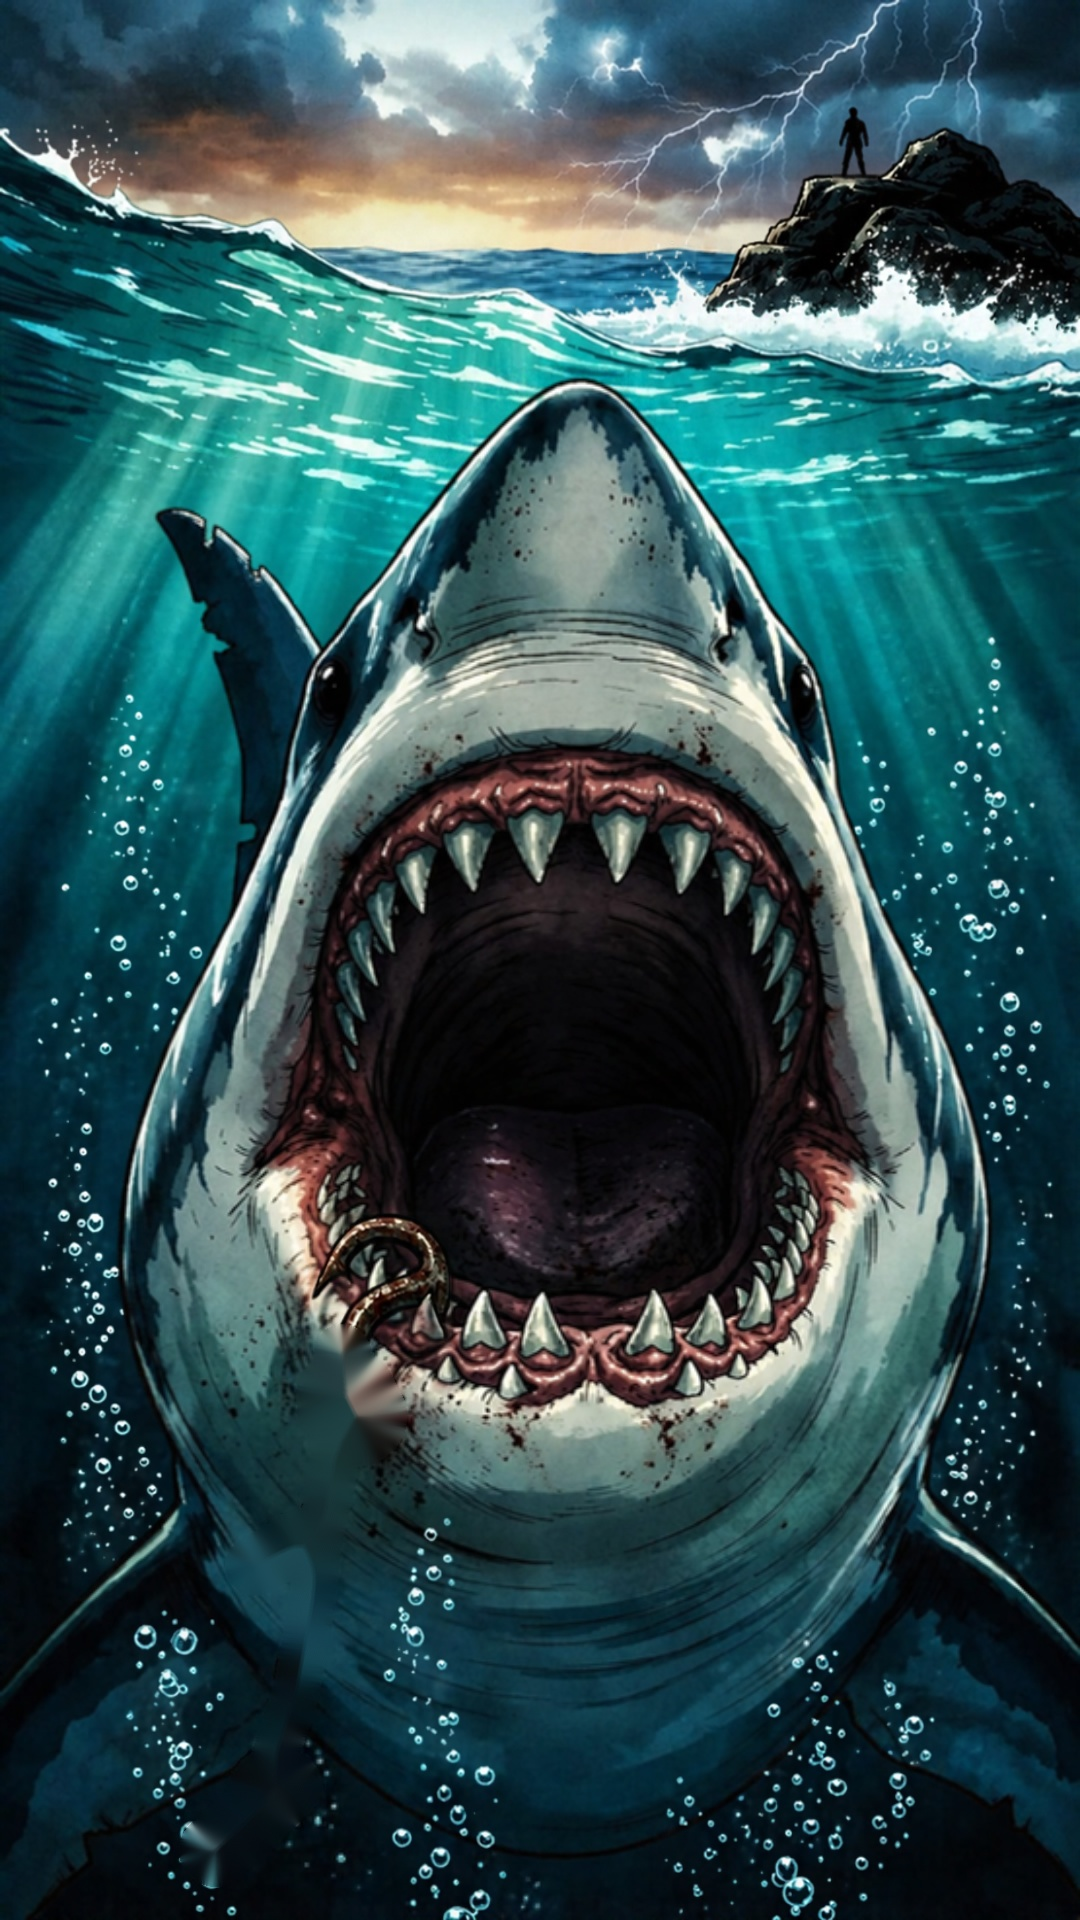
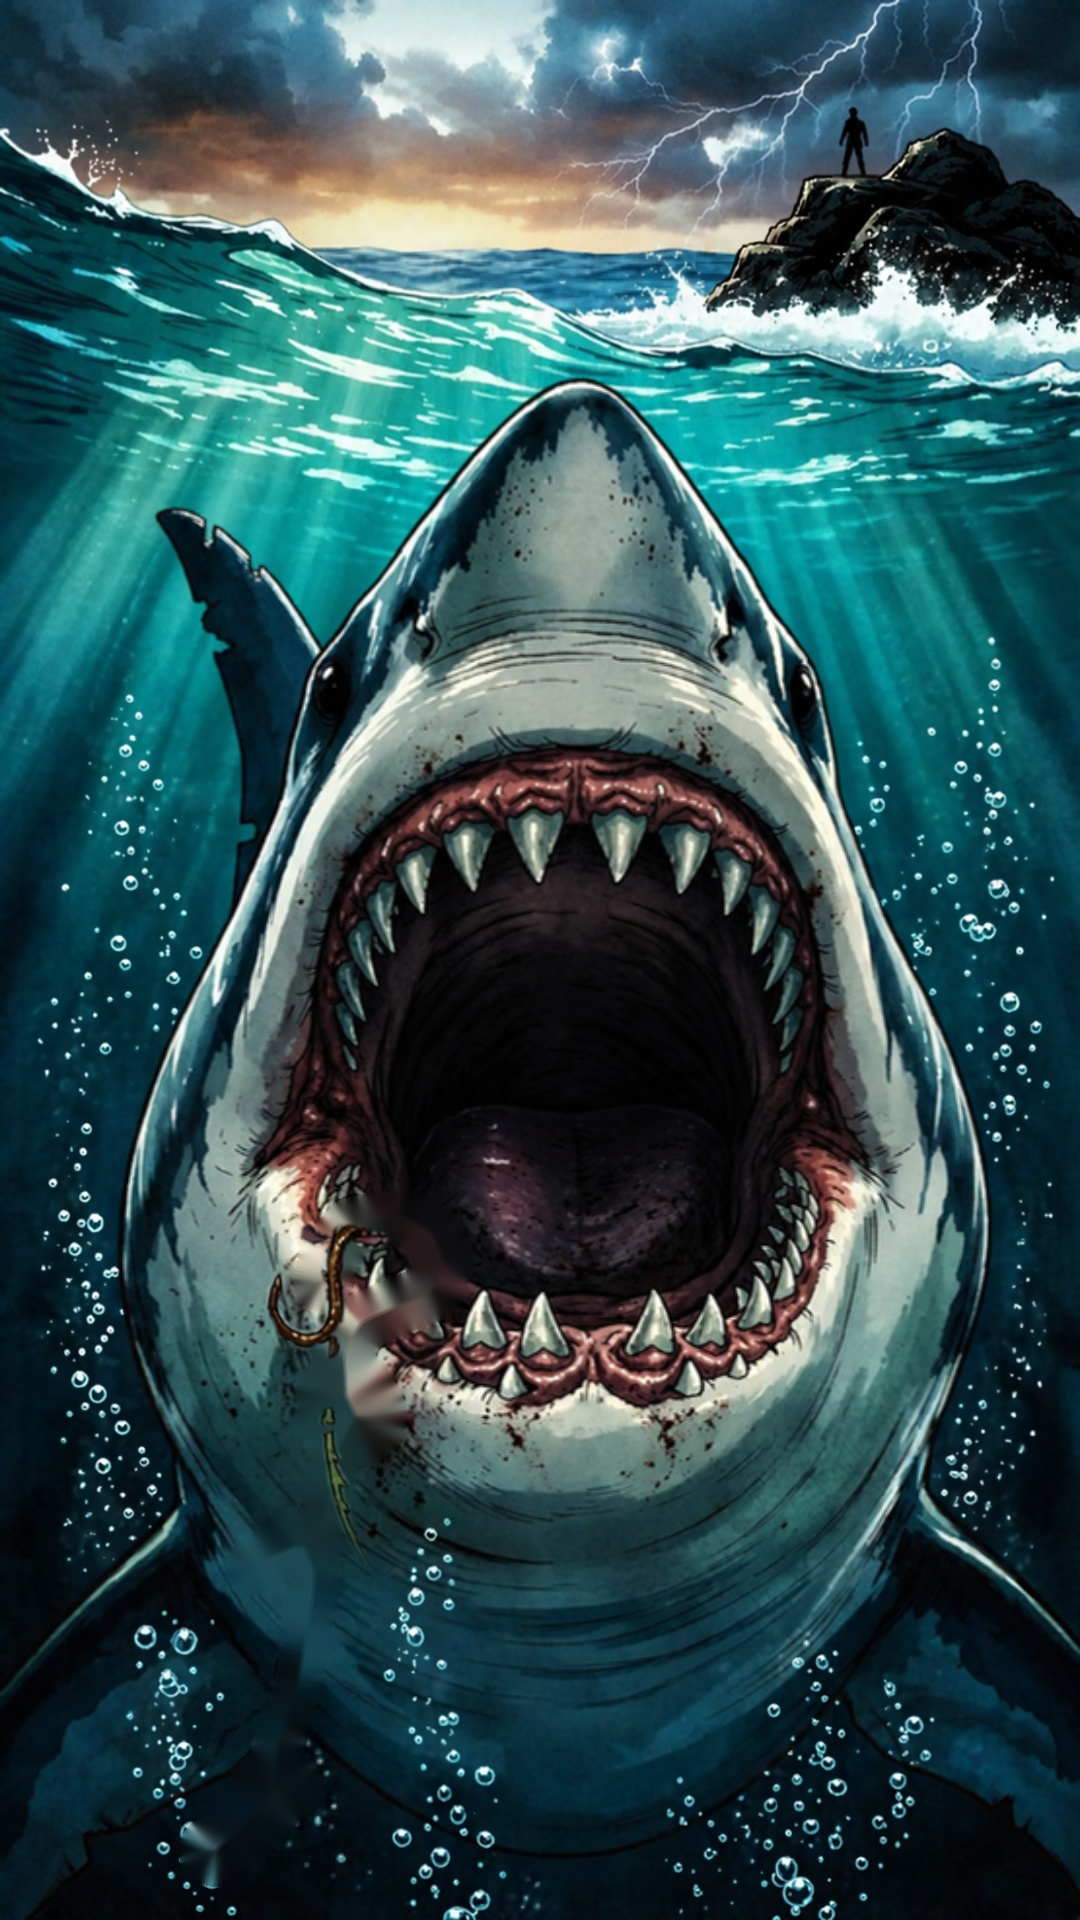
ADA 9: kanca 01b'deki gibi (kullanıcının seçtiği), 09c/14b'de aynı; 01b orijinale döndü
Claude-Session: https://claude.ai/code/session_014JxJGGMAcsX945kBrKhihb

Changed region(s): [[0.2444, 0.625, 0.4278, 0.8125]]

diff --git a/hikaye-video/projeler/ada9/kanca.py b/hikaye-video/projeler/ada9/kanca.py
@@ -18,12 +18,13 @@ SAHNE = {
                 sil=[([(332, 1480), (320, 1540), (335, 1590), (365, 1630), (405, 1662)], 28),
                      ([(410, 1665), (385, 1685), (365, 1710)], 30), ([(412, 1672), (430, 1710), (440, 1756)], 30),
                      ([(415, 1672), (470, 1698), (512, 1722), (528, 1760), (525, 1795)], 30), ([(420, 1688), (470, 1684), (510, 1690)], 28), ([(395, 1655), (450, 1680), (520, 1705)], 55), ([(430, 1425), (440, 1440)], 30)],
-                orijinal=(528, 1324, 0, 0.62)),
-    '14b': dict(cor=[(200, 1440, 360, 1860)], sil=[([(342, 1352), (338, 1388)], 40), ([(346, 1396), (356, 1416)], 84), ([(338, 1430), (332, 1480), (318, 1540), (312, 1600), (296, 1690), (270, 1770), (245, 1830)], 30),
-                     ([(310, 1535), (255, 1565)], 44), ([(285, 1785), (215, 1850)], 56)], sakla=True),
-    '15': dict(cor=[(893, 1490, 1020, 1585)], sil=[([(886, 1492), (892, 1516)], 24), ([(880, 1524), (884, 1530)], 44),
+                orijinal=(458, 1214, 0, 1.05)),
+    '14b': dict(cor=[(200, 1440, 360, 1860)], sil=[([(322, 1282), (330, 1250), (352, 1226), (400, 1214), (432, 1232), (444, 1262), (432, 1292), (396, 1306), (360, 1322), (342, 1352), (338, 1385)], 42),
+                     ([(346, 1396), (356, 1416)], 84), ([(338, 1430), (332, 1480), (318, 1540), (312, 1600), (296, 1690), (270, 1770), (245, 1830)], 30),
+                     ([(310, 1535), (255, 1565)], 44), ([(285, 1785), (215, 1850)], 56)], orijinal=(345, 1232, 8, 1.3)),
+    '15': dict(cor=[(893, 1490, 1020, 1585)], sil=[([(886, 1494), (892, 1516)], 22), ([(880, 1524), (884, 1530)], 40),
                     ([(900, 1535), (925, 1568), (962, 1582), (992, 1560), (1002, 1528), (990, 1500), (950, 1487)], 46), ([(955, 1490), (970, 1535)], 32)],
-               kanca=(880, 1470, 84, 0.55)),
+               orijinal=(868, 1470, 0, 0.55)),
     '01b': dict(cor=[(670, 1090, 920, 1470)], sil=[([(738, 1078), (736, 1122)], 30), ([(745, 1182), (748, 1202)], 56), ([(708, 1160), (716, 1170)], 36), ([(826, 1392), (838, 1400)], 34), ([(880, 1436), (896, 1446)], 36), ([(826, 1330), (840, 1345)], 30)], orijinal=(774, 1092, 0, 0.5)),
 }
 
@@ -73,6 +74,32 @@ def sprite(scale):
 
 
 HOOK_YOL = [(322, 1282), (330, 1250), (352, 1226), (400, 1214), (432, 1232), (444, 1262), (432, 1292), (396, 1306), (360, 1322), (346, 1346)]  # 14b'deki orijinal kancanın yolu
+
+
+def sprite_01b(kaynak):
+    """01b'deki (kullanıcının beğendiği) kanca + misina: renk maskesi + kontur. RGBA, çapa = sapın ağızdaki ucu."""
+    im = cv2.imread(os.path.join(kaynak, '01b.jpg'))
+    X0, Y0, X1, Y1 = 672, 1050, 920, 1470
+    roi = im[Y0:Y1, X0:X1]
+    hsv = cv2.cvtColor(roi, cv2.COLOR_BGR2HSV)
+    h, sa, v = hsv[..., 0].astype(int), hsv[..., 1].astype(int), hsv[..., 2].astype(int)
+    rust = (((h <= 24) | (h >= 168)) & (sa >= 70) & (v >= 40) & (v <= 240))
+    tan = ((h >= 18) & (h <= 64) & (sa >= 55) & (v >= 70))
+    m = (rust | tan).astype(np.uint8) * 255
+    m[:25, :] = 0  # üstteki dişleri/dudağı alma
+    koridor = np.zeros(m.shape, np.uint8)  # yalnızca kanca + misina yolu
+    for yol, th in (([(742, 1070), (740, 1110), (730, 1150), (708, 1168), (694, 1140)], 56), ([(745, 1185), (762, 1250), (790, 1322), (832, 1384), (884, 1442)], 36), ([(832, 1384), (897, 1452)], 40)):
+        cv2.polylines(koridor, [np.array([(x - X0, y - Y0) for x, y in yol], np.int32)], False, 255, th, cv2.LINE_AA)
+    m &= koridor
+    n, lab, st, _ = cv2.connectedComponentsWithStats(m)
+    keep = np.zeros_like(m)
+    for i in range(1, n):
+        if st[i][4] >= 25: keep[lab == i] = 255
+    keep = cv2.dilate(keep, cv2.getStructuringElement(cv2.MORPH_ELLIPSE, (7, 7)))
+    a = cv2.GaussianBlur(keep, (0, 0), 1.2).astype(np.float32)
+    yy = np.arange(a.shape[0], dtype=np.float32)[:, None]
+    a *= np.clip((1335 - Y0 - yy) / 45, 0, 1)  # misinanın alt ucu (püsküllü kısım) yumuşakça kaybolur
+    return np.dstack([roi.astype(np.float32), a.astype(np.float32)]), (742 - X0, 1078 - Y0)
 
 
 def orijinal_sprite(kaynak):
@@ -146,7 +173,7 @@ def main():
         orig = cv2.imread(os.path.join(kaynak, '14b.jpg')) if 'orijinal' in cfg else None
         im = temizle(im, cfg)
         if 'orijinal' in cfg:
-            sp, anc = orijinal_sprite(kaynak); yerlestir_orijinal(im, sp, anc, *cfg['orijinal'])
+            sp, anc = sprite_01b(kaynak); yerlestir_orijinal(im, sp, anc, *cfg['orijinal'])
         elif 'kanca' in cfg: yerlestir(im, *cfg['kanca'])
         cv2.imwrite(os.path.join(cikti or G, n + '.jpg'), im, [cv2.IMWRITE_JPEG_QUALITY, 95]); print('tamam', n)
 
